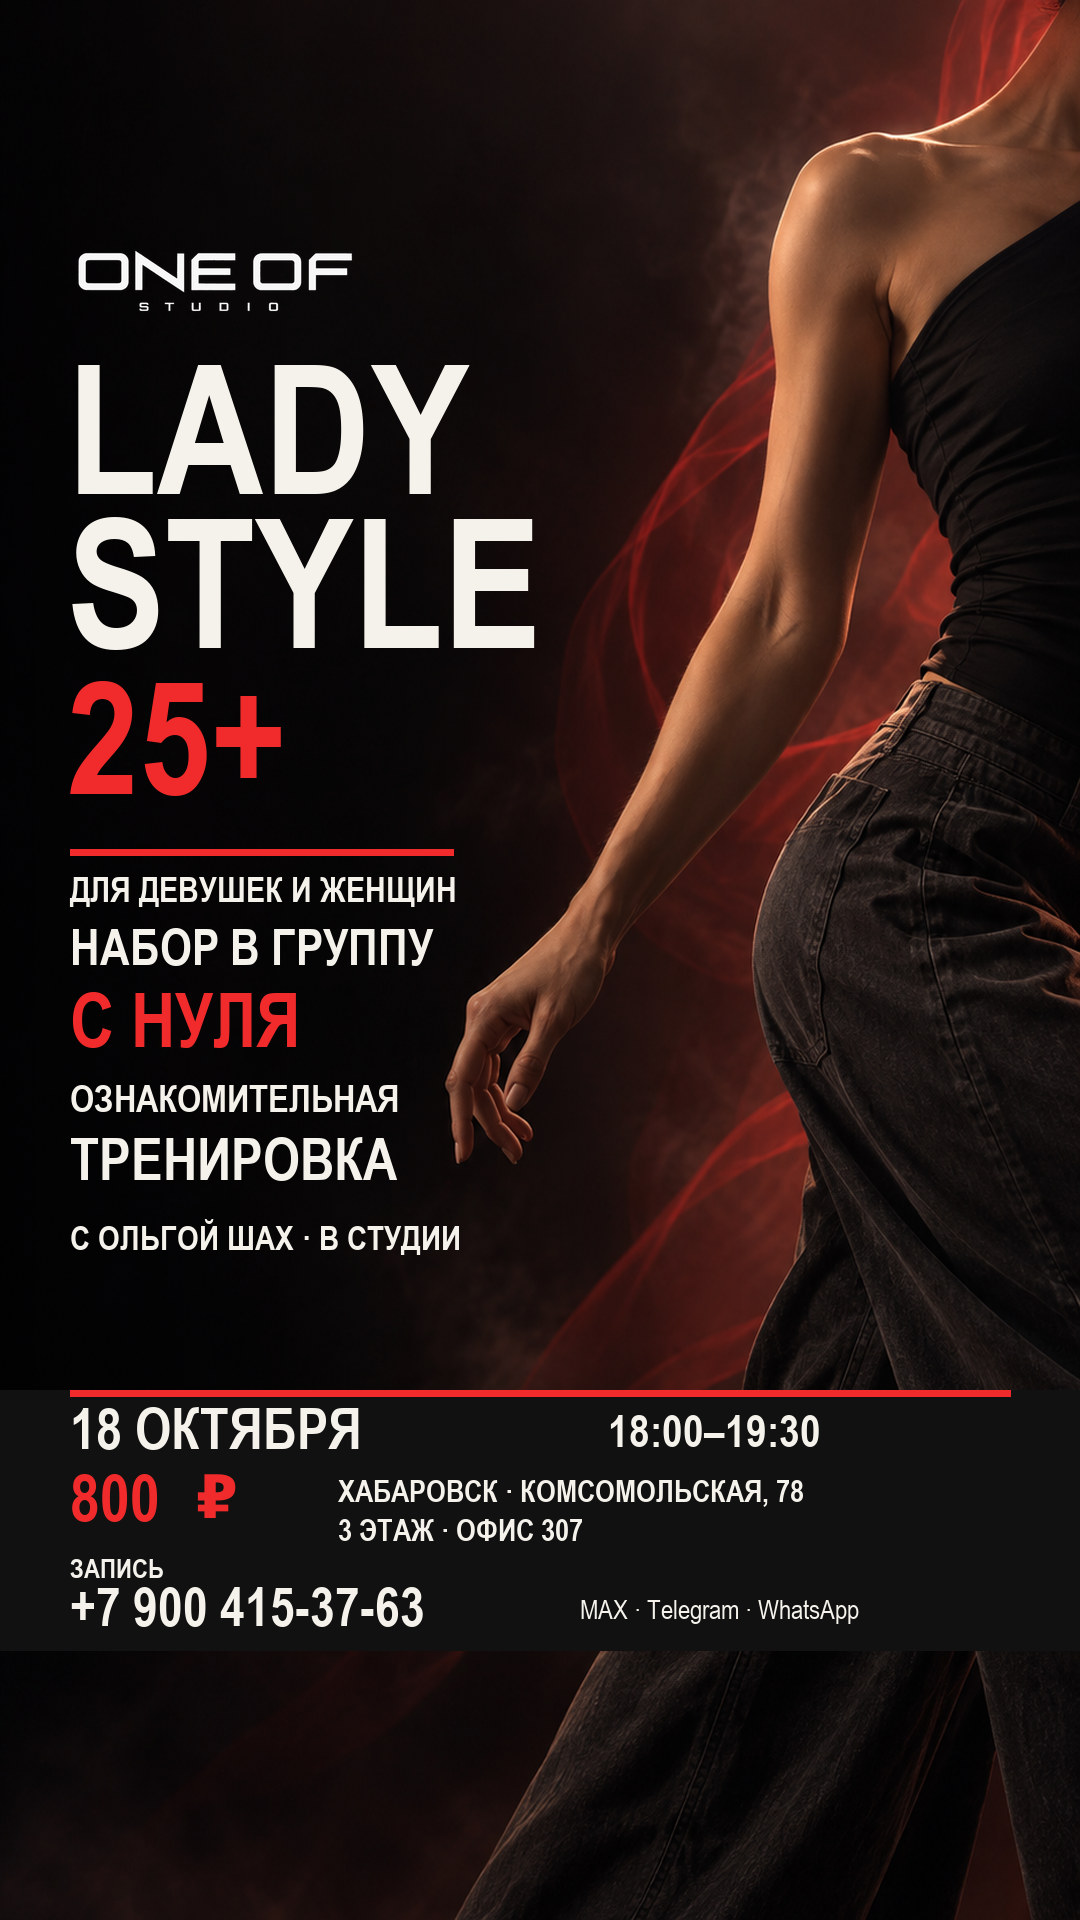
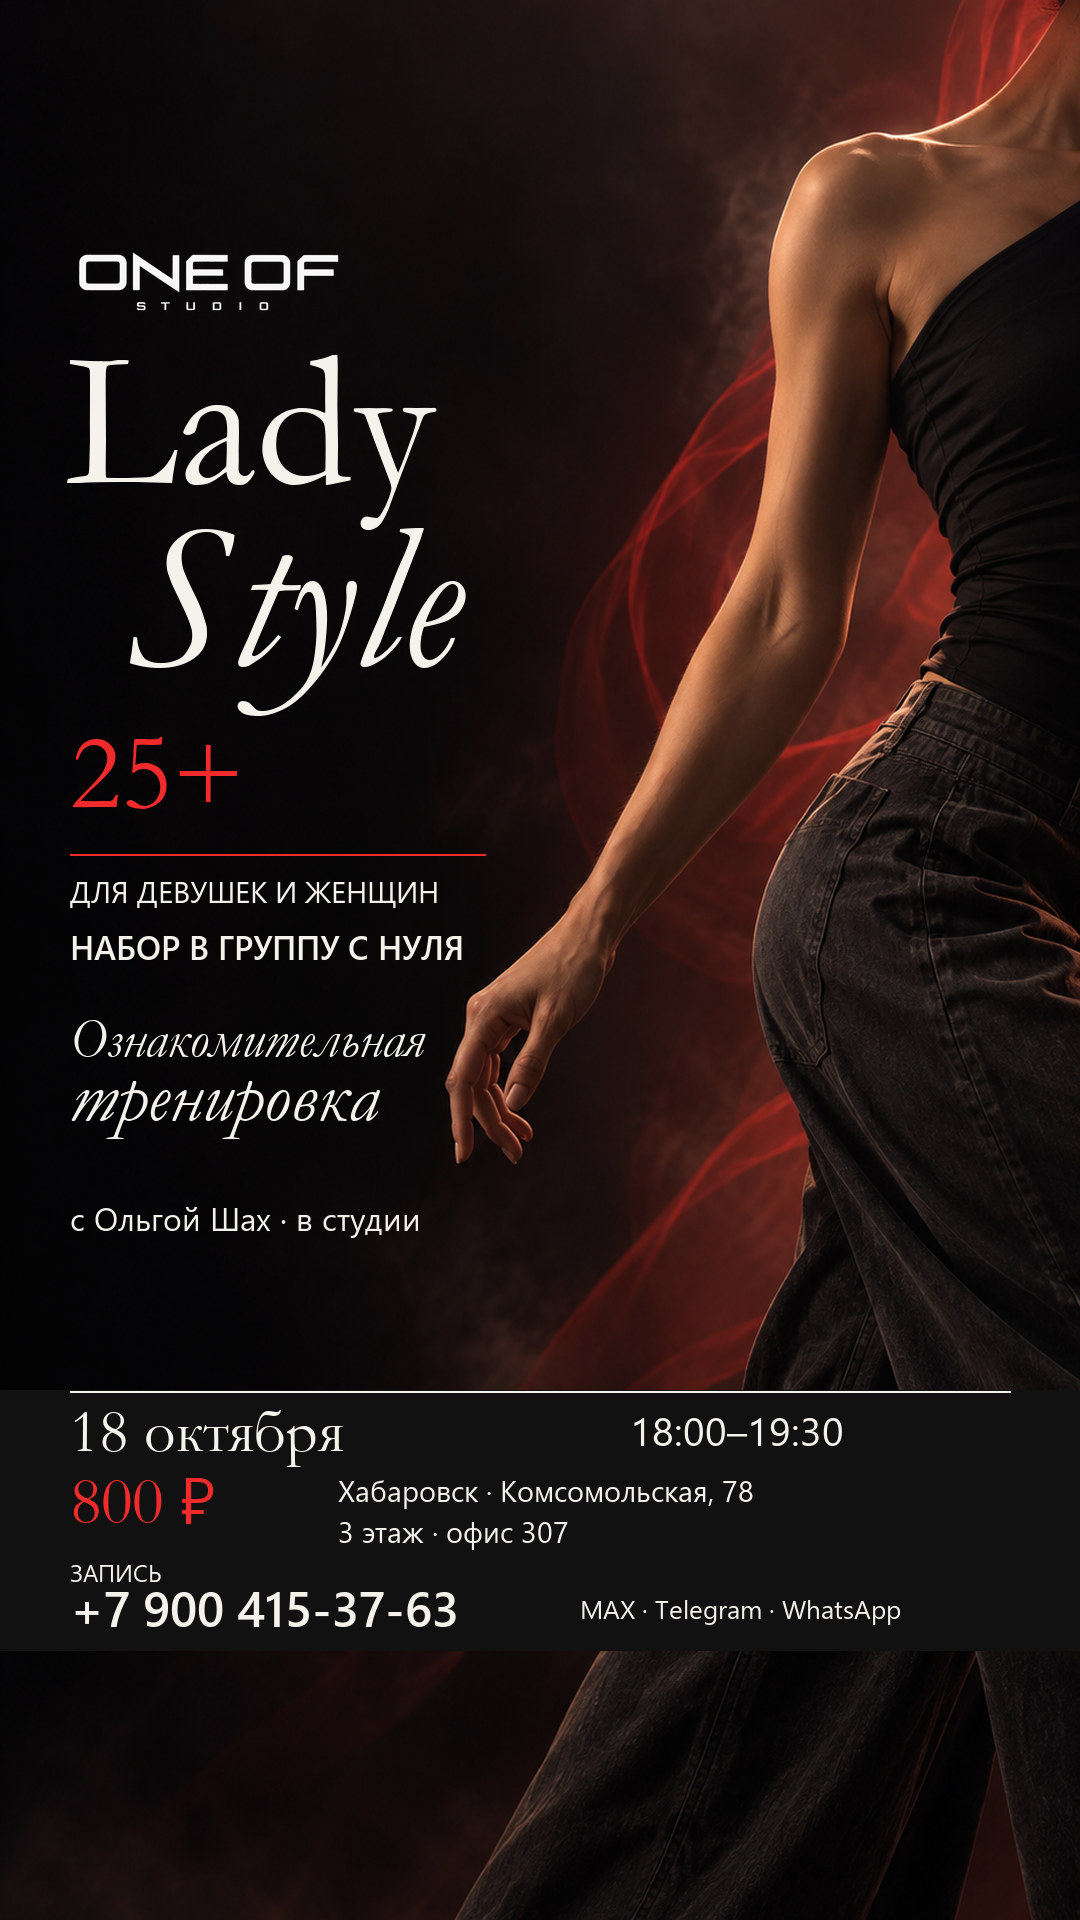
Refine Lady Style aura poster with editorial typography

diff --git a/tools/render_lady_style_aura_editorial.py b/tools/render_lady_style_aura_editorial.py
@@ -1,0 +1,72 @@
+"""Export the approved aura detail story with quiet editorial typography."""
+
+from pathlib import Path
+
+from PIL import Image, ImageDraw, ImageFont
+
+
+ROOT = Path(__file__).resolve().parents[1]
+SOURCE = ROOT / "assets/originals/events/lady-style-motion-aura-detail.png"
+OUTPUT = ROOT / "assets/web/vk-ads/lady-style-motion-aura-detail-story-9x16.jpg"
+W, H = 1080, 1920
+BLACK = (17, 17, 17)
+IVORY = (245, 242, 236)
+RED = (241, 43, 43)
+FONTS = Path("C:/Windows/Fonts")
+
+
+def face(filename, size):
+    return ImageFont.truetype(str(FONTS / filename), size)
+
+
+def render():
+    source = Image.open(SOURCE).convert("RGB")
+    canvas = source.resize((W, H), Image.Resampling.LANCZOS)
+
+    # Let the approved shoulder, arm and hip remain the image's focal point.
+    veil = Image.new("RGBA", (W, 1390), (0, 0, 0, 0))
+    vd = ImageDraw.Draw(veil)
+    for x in range(700):
+        alpha = round(42 * (1 - x / 700))
+        vd.line((x, 0, x, 1390), fill=(0, 0, 0, alpha))
+    canvas.paste(veil, (0, 0), veil)
+    draw = ImageDraw.Draw(canvas)
+
+    def put(x, y, value, filename, size, color=IVORY):
+        draw.text((x, y), value, font=face(filename, size), fill=color, anchor="lt")
+
+    logo = Image.open(ROOT / "brand_assets/web/logo.png").convert("RGBA")
+    logo.thumbnail((270, 75), Image.Resampling.LANCZOS)
+    canvas.paste(logo, (73, 248), logo)
+
+    put(66, 354, "Lady", "GARA.TTF", 194)
+    put(124, 528, "Style", "GARAIT.TTF", 211)
+    put(70, 737, "25+", "GARA.TTF", 109, RED)
+    draw.line((70, 854, 485, 854), fill=RED, width=2)
+
+    put(70, 882, "ДЛЯ ДЕВУШЕК И ЖЕНЩИН", "segoeui.ttf", 30)
+    put(70, 936, "НАБОР В ГРУППУ С НУЛЯ", "seguisb.ttf", 33)
+    put(70, 1020, "Ознакомительная", "GARAIT.TTF", 54)
+    put(70, 1080, "тренировка", "GARAIT.TTF", 75)
+    put(70, 1207, "с Ольгой Шах · в студии", "segoeui.ttf", 32)
+
+    draw.rectangle((0, 1390, W, 1650), fill=BLACK)
+    draw.line((70, 1391, 1010, 1391), fill=IVORY, width=2)
+    put(70, 1410, "18 октября", "GARA.TTF", 62)
+    put(630, 1418, "18:00–19:30", "segoeui.ttf", 40)
+    put(70, 1480, "800", "GARA.TTF", 67, RED)
+    put(180, 1478, "₽", "segoeui.ttf", 66, RED)
+    put(338, 1480, "Хабаровск · Комсомольская, 78", "segoeui.ttf", 29)
+    put(338, 1522, "3 этаж · офис 307", "segoeui.ttf", 29)
+    put(70, 1565, "ЗАПИСЬ", "segoeui.ttf", 24)
+    put(70, 1592, "+7 900 415-37-63", "seguisb.ttf", 49)
+    put(580, 1600, "MAX · Telegram · WhatsApp", "segoeui.ttf", 26)
+
+    OUTPUT.parent.mkdir(parents=True, exist_ok=True)
+    canvas.save(OUTPUT, "JPEG", quality=88, subsampling=0, optimize=True)
+    print(f"{SOURCE.name}: {source.size}, {SOURCE.stat().st_size} B")
+    print(f"{OUTPUT.name}: {canvas.size}, {OUTPUT.stat().st_size} B")
+
+
+if __name__ == "__main__":
+    render()

diff --git a/tools/render_lady_style_motion_stories.py b/tools/render_lady_style_motion_stories.py
@@ -17,7 +17,6 @@ VARIANTS = (
     ("jazz-funk", 0, 95),
     ("heels", 245, 105),
     ("fusion", 245, 190),
-    ("aura-detail", 0, 100),
 )
 
 

diff --git a/docs/LADY_STYLE_INTRO_AD_2026-10-18.md b/docs/LADY_STYLE_INTRO_AD_2026-10-18.md
@@ -168,13 +168,13 @@ MAX, Telegram, WhatsApp. После первого просмотра нижни
 фона была одобрена пользователем до наложения текста.
 
 Готовая сторис: `assets/web/vk-ads/lady-style-motion-aura-detail-story-9x16.jpg`
-(1080 × 1920, 284 367 байт). PNG-источник
+(1080 × 1920, 272 084 байта после переработки текста). PNG-источник
 `assets/originals/events/lady-style-motion-aura-detail.png` — 941 × 1672,
 1 779 699 байт; создан встроенным imagegen. Промпт: взрослый абстрактный
 фрагмент плеча, руки, бока и бедра на правой стороне кадра, лицо вне кадра,
 не слишком откровенная чёрная одежда, вуаль красного света, свободное тёмное
 поле слева, без текста и логотипа. Точная русская типографика и фирменный
-логотип добавлены скриптом `tools/render_lady_style_motion_stories.py`.
+логотип добавлены скриптом `tools/render_lady_style_aura_editorial.py`.
 
 Афиша содержит Lady Style 25+, набор девушек и женщин в группу с нуля,
 ознакомительную тренировку с Ольгой Шах в студии, 18 октября 18:00–19:30,
@@ -182,3 +182,14 @@ MAX, Telegram, WhatsApp. После первого просмотра нижни
 +7 900 415-37-63 через MAX, Telegram или WhatsApp. Готовый файл проверен в
 полном размере и по нативным фрагментам: жест руки не перекрывает текст,
 данные записи и цена читаются. Это рекламный файл, сайт его не загружает.
+
+### Переработка типографики по отзыву пользователя
+
+Пользователю не понравился первоначальный крупный рубленый текст. На том же
+одобренном фоне выполнена более спокойная редакционная композиция: название
+Lady Style и фраза «Ознакомительная тренировка» набраны контрастным шрифтом
+с засечками и курсивом, условия и контакты — простым хорошо читаемым шрифтом.
+Номер, дата, время, цена и адрес не изменены. При первой проверке исправлены
+неподдерживаемый шрифтом знак рубля и слишком длинная строка набора,
+подходившая к руке. Итог повторно просмотрен полностью и в нативных фрагментах;
+цена «800 ₽» и все данные для записи читаются. Исходный фон сохранён.

diff --git a/docs/REQUESTS.md b/docs/REQUESTS.md
@@ -149,3 +149,4 @@
 | R-094 | 10.10.2026, уточнение к R-093 | Заменить одежду варианта 08 на близкую к присланным референсам. | done; final poster revised | `assets/web/vk-ads/lady-style-motion-heels-story-9x16.jpg`; свободный чёрный верх, широкие джинсы и распущенные волосы при сохранённой позе. |
 | R-095 | 11.10.2026, продолжение R-089/R-094 | Попробовать новый образ для сторис из плеча, руки, бока и бедра как вуаль или дымку на фоне; одежда может быть умеренно открытой, без излишней откровенности. | done; background approved by user | `docs/LADY_STYLE_INTRO_AD_2026-10-18.md`; фон `assets/originals/events/lady-style-motion-aura-detail.png`. |
 | R-096 | 11.10.2026, подтверждение R-095 | Добавить необходимый текст к одобренному фону. | done; story poster prepared | `assets/web/vk-ads/lady-style-motion-aura-detail-story-9x16.jpg`; полный текст события и запись. |
+| R-097 | 11.10.2026, отзыв к R-096 | Заменить не понравившийся стиль текста на афише с абстрактным крупным планом. | done; typography revised | `assets/web/vk-ads/lady-style-motion-aura-detail-story-9x16.jpg`; крупное название с засечками, спокойный текст условий, проверен знак ₽. |
